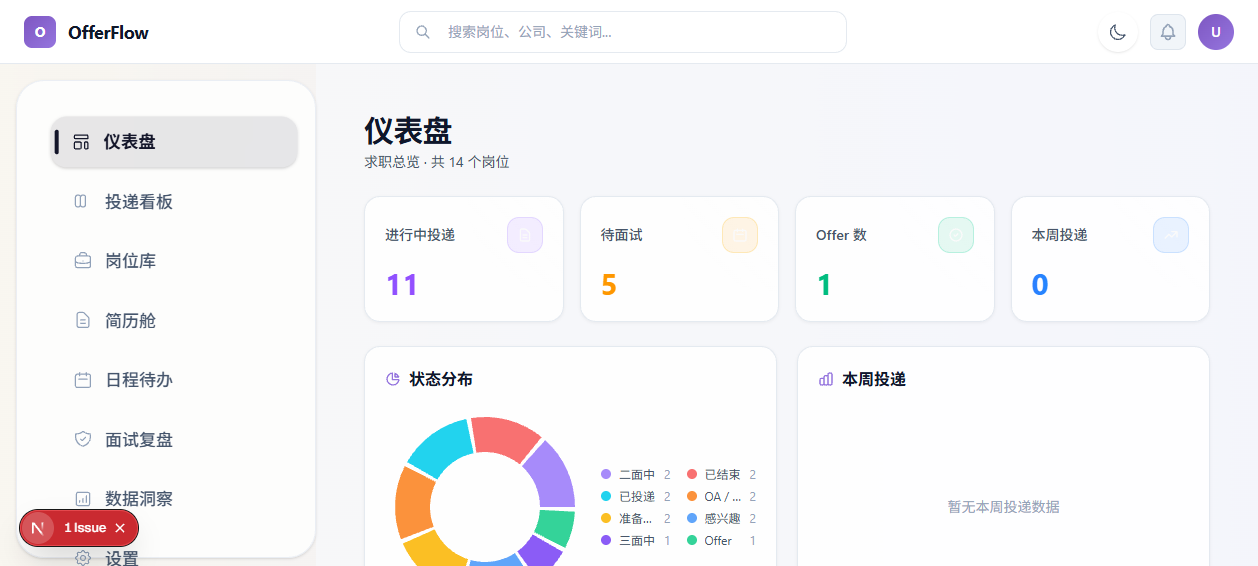
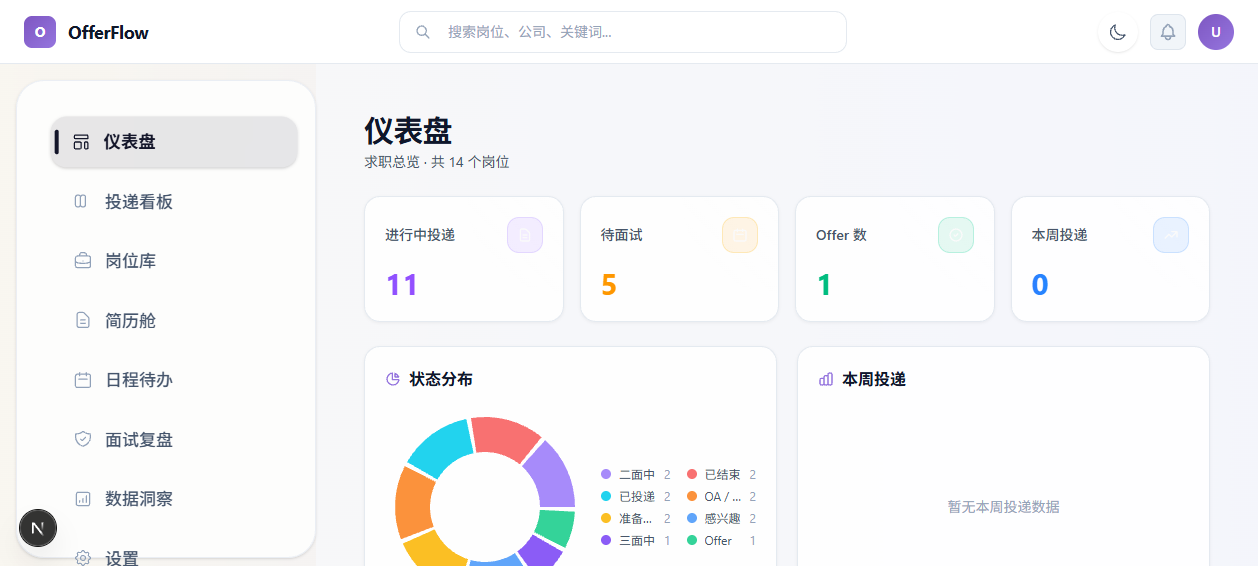
docs: 重新截取完整截图并加入 README 展示 (10 张)

Changed region(s): [[0.0, 0.9011, 0.124, 0.9912]]

diff --git a/README.md b/README.md
@@ -43,6 +43,60 @@
 
 ---
 
+## 功能截图
+
+### 仪表盘 (Dashboard)
+> 状态饼图 · 投递趋势 · 渠道分布 · 待办概览
+
+![Dashboard](screenshots/01-dashboard.png)
+
+### 岗位库 (Positions)
+> 表格管理 · 多维度筛选 · 求职链接管理 · 批量操作
+
+![Positions](screenshots/02-positions.png)
+
+### 投递看板 (Kanban)
+> 10 列全流程 · 拖拽流转 · 卡片式展示
+
+![Kanban](screenshots/03-kanban.png)
+
+### 面试复盘 (Interview)
+> 8 维度评分 · AI 智能分析 · 逐题拆解 · 趋势报告
+
+![Interview](screenshots/04-interview.png)
+
+### 数据洞察 (Insights)
+> 投递漏斗 · 评分趋势 · 薄弱项 · 拒绝分析
+
+![Insights](screenshots/05-insights.png)
+
+### 日程待办 (Schedule)
+> 按类型分组 · 优先级标记 · 关联岗位
+
+![Schedule](screenshots/06-schedule.png)
+
+### 简历管理 (Resumes)
+> 多版本管理 · 本地上传 · 默认标记
+
+![Resumes](screenshots/07-resume.png)
+
+### 新增岗位弹窗
+> 多平台求职链接 · 薪资/城市/优先级配置
+
+![Add Job](screenshots/08-add-job-modal.png)
+
+### 暗色模式
+> 仪表盘暗色 | 投递看板暗色
+
+<table>
+  <tr>
+    <td><img src="screenshots/09-dashboard-dark.png" alt="Dashboard Dark"/></td>
+    <td><img src="screenshots/10-kanban-dark.png" alt="Kanban Dark"/></td>
+  </tr>
+</table>
+
+---
+
 ## 快速开始
 
 ### 前置条件